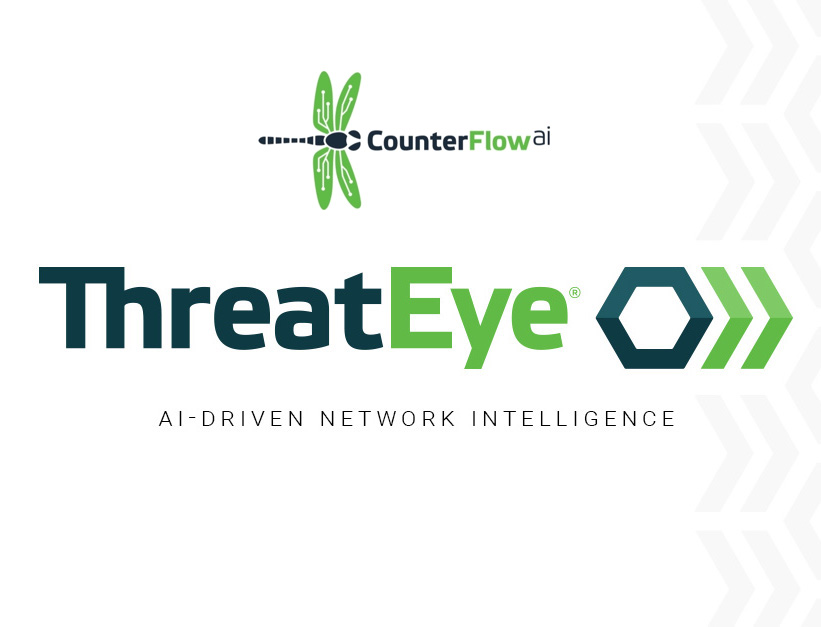
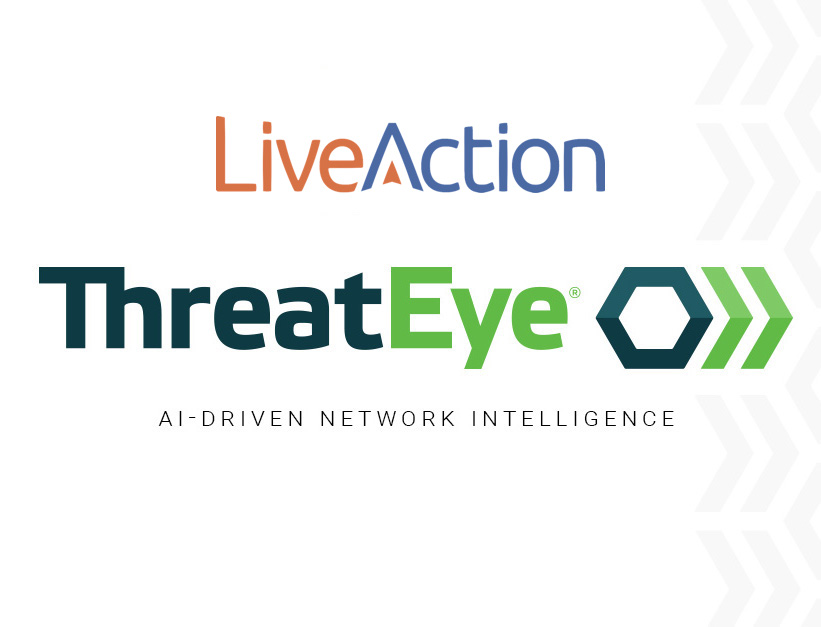
chore: updates to case study

Changed region(s): [[0.2436, 0.1212, 0.7613, 0.3333]]

diff --git a/src/pages/case-study/counterflow.tsx b/src/pages/case-study/counterflow.tsx
@@ -171,13 +171,6 @@ const Counterflow = () => {
             encrypted protocols despite having no visibility into the content of
             the exchanges.
           </p>
-          <img
-            alt="A diagram showing six patterns of network traffic highlighted by Deep Packet Dynamics"
-            className={chCss.chart}
-            height={433}
-            src="/img/pages/case-study/counterflow/threateye_dpd.png"
-            width={800}
-          />
 
           <h3>Analytics to process millions of events per second</h3>
           <p className="font-size--large">
@@ -191,26 +184,45 @@ const Counterflow = () => {
             Distinct from batch processing, streaming ML is powered by analyzers
             designed to inspect network traffic without multiple passes over the
             data stream. The streaming nature of this solution means that we
-            have to process millions of events per second.
+            have to process millions of events per second. The QuestDB instances
+            we’re running are storing billions of records with the fields which
+            we analyze to perform our predictions. The performance of QuestDB
+            allows us to run queries such as these without our database being
+            the bottleneck:
           </p>
+
+          <img
+            alt="A diagram showing six patterns of network traffic highlighted by Deep Packet Dynamics"
+            className={chCss.chart}
+            height={433}
+            src="/img/pages/case-study/counterflow/console.png"
+            width={1000}
+          />
           <h3>Why we chose QuestDB for time series analytics</h3>
           <p className="font-size--large">
-            We’re typically executing 25k to 100k inserts per second, depending
-            on the size of the customer and the network activity. We started
-            with InfluxDB as our central time series database, but we quickly
-            started hitting performance issues with scalability in production
-            environments, and we needed to find a practical alternative. After
-            InfluxDB, we tried TimescaleDB, which was reasonable for
-            performance, but the database configuration was inconvenient for us
-            and the system had a poor footprint.
+            We started with InfluxDB as our central time series database, but we
+            quickly started hitting performance issues with scalability in
+            production environments, and we needed to find a practical
+            alternative. We’re typically executing 25k to 100k inserts per
+            second, depending on the size of the customer and the network
+            activity. After InfluxDB, we tried TimescaleDB, which was reasonable
+            for performance, but the database configuration was inconvenient for
+            us and the system had a poor footprint.
           </p>
 
           <p className="font-size--large">
-            When we tried QuestDB, importing data over CSV was orders of
-            magnitude faster than the other time series databases we used
-            before. Our tools export either JSON or CSV, which means that a
-            RESTful API to import and export data allows for seamless
-            interfacing with the rest of our technology stack.
+            When I first tried QuestDB using test scripts to evaluate time
+            series databases, I initially thought I had misconfigured something
+            because the ingestion speed seemed unrealistic. When I ran some SQL
+            queries in the console and got near-instant results returning our
+            full dataset, I started to get excited about QuestDB being a
+            legitimate alternative to other systems.
+          </p>
+          <p className="font-size--large">
+            Our tools export either JSON or CSV, which means that a RESTful API
+            to import and export data allows for seamless interfacing with the
+            rest of our technology stack. We’re now using InfluxDB line protocol
+            over TCP for ingestion, and the performance is even better.
           </p>
 
           <h3>Why performance matters for streaming data scenarios</h3>
@@ -251,7 +263,10 @@ const Counterflow = () => {
               <span className={caCss.card__quote}>&rdquo;</span>
             </p>
             <p className={caCss.card__title}>
-              <b>Randy Caldejon, VP Product Development at LiveAction</b>
+              <b>
+                Randy Caldejon, VP Product Development at LiveAction
+                (Counterflow AI)
+              </b>
             </p>
           </div>
         </div>

diff --git a/src/pages/customers.tsx b/src/pages/customers.tsx
@@ -259,11 +259,11 @@ const Customer = () => {
           </div>
           <p className={caCss.card__summary}>
             <img
-              alt="Counterflow AI logo"
+              alt="LiveAction logo"
               className={caCss.card__logo}
               height={80}
-              src="/img/pages/customers/cards/counterflow.svg"
-              width={160}
+              src="/img/pages/customers/logos/liveaction.svg"
+              width={120}
             />
             “QuestDB is impressive and stands out as a superior option. We use
             it as the basis of our time series analytics for network threat
